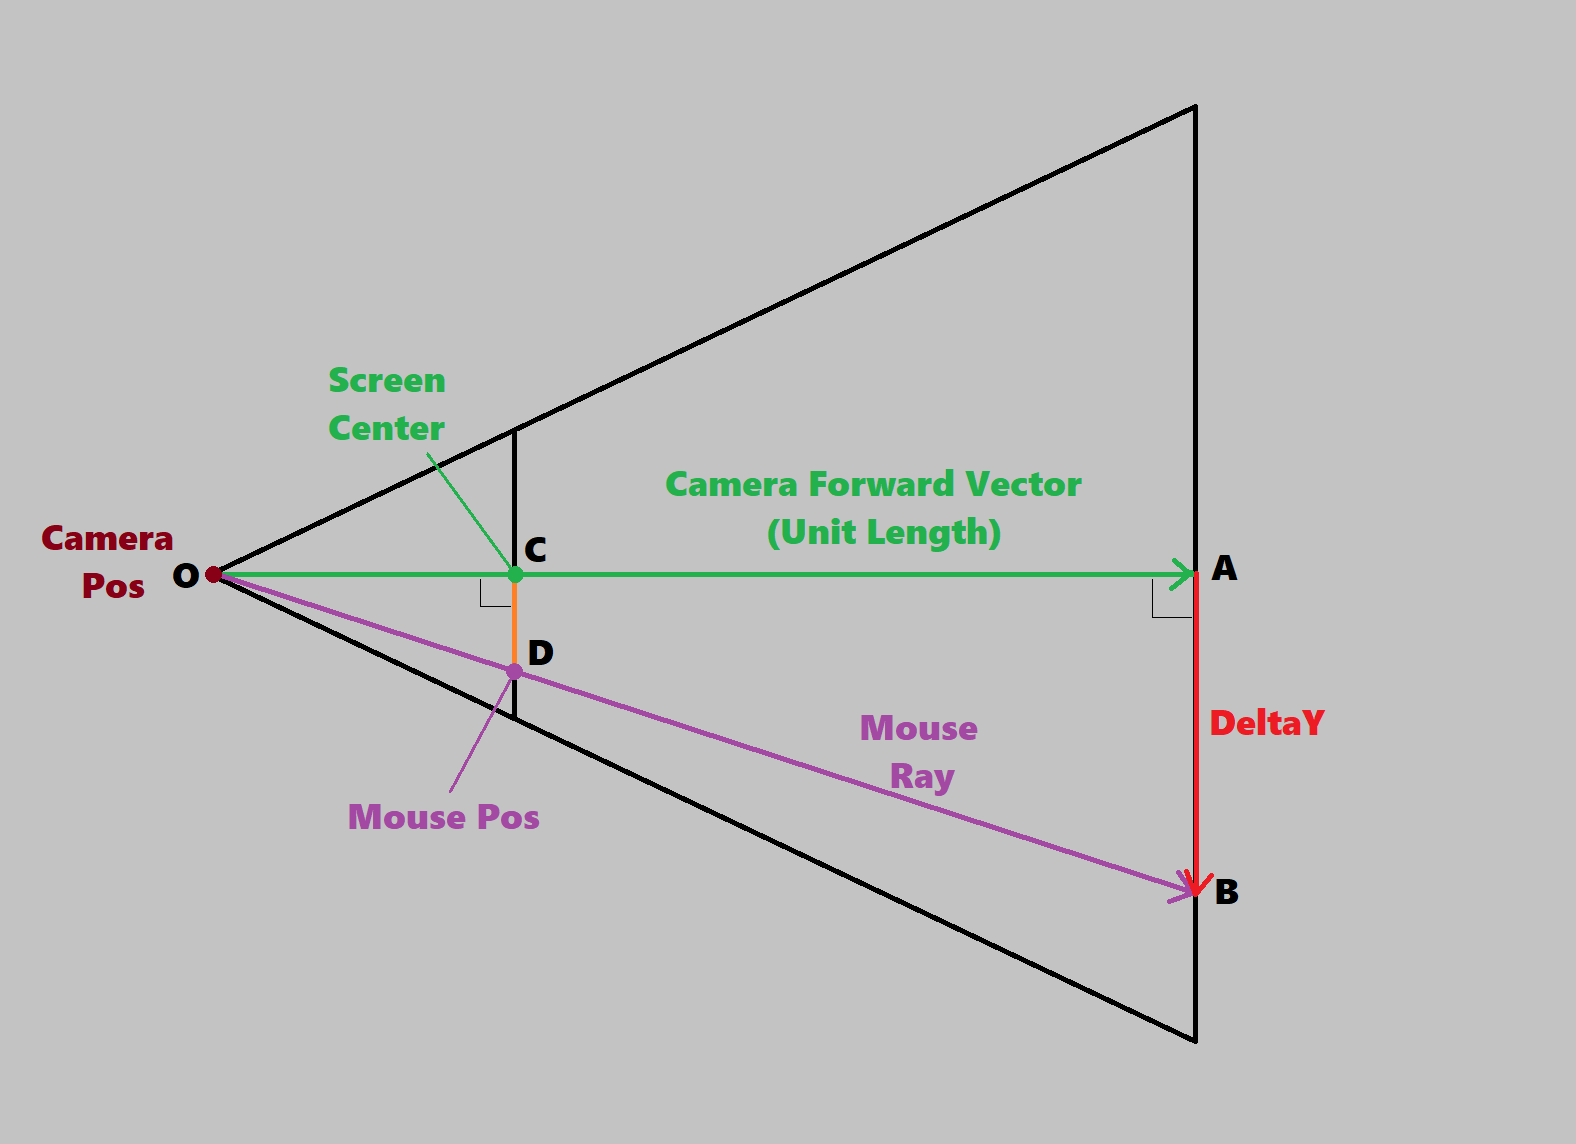
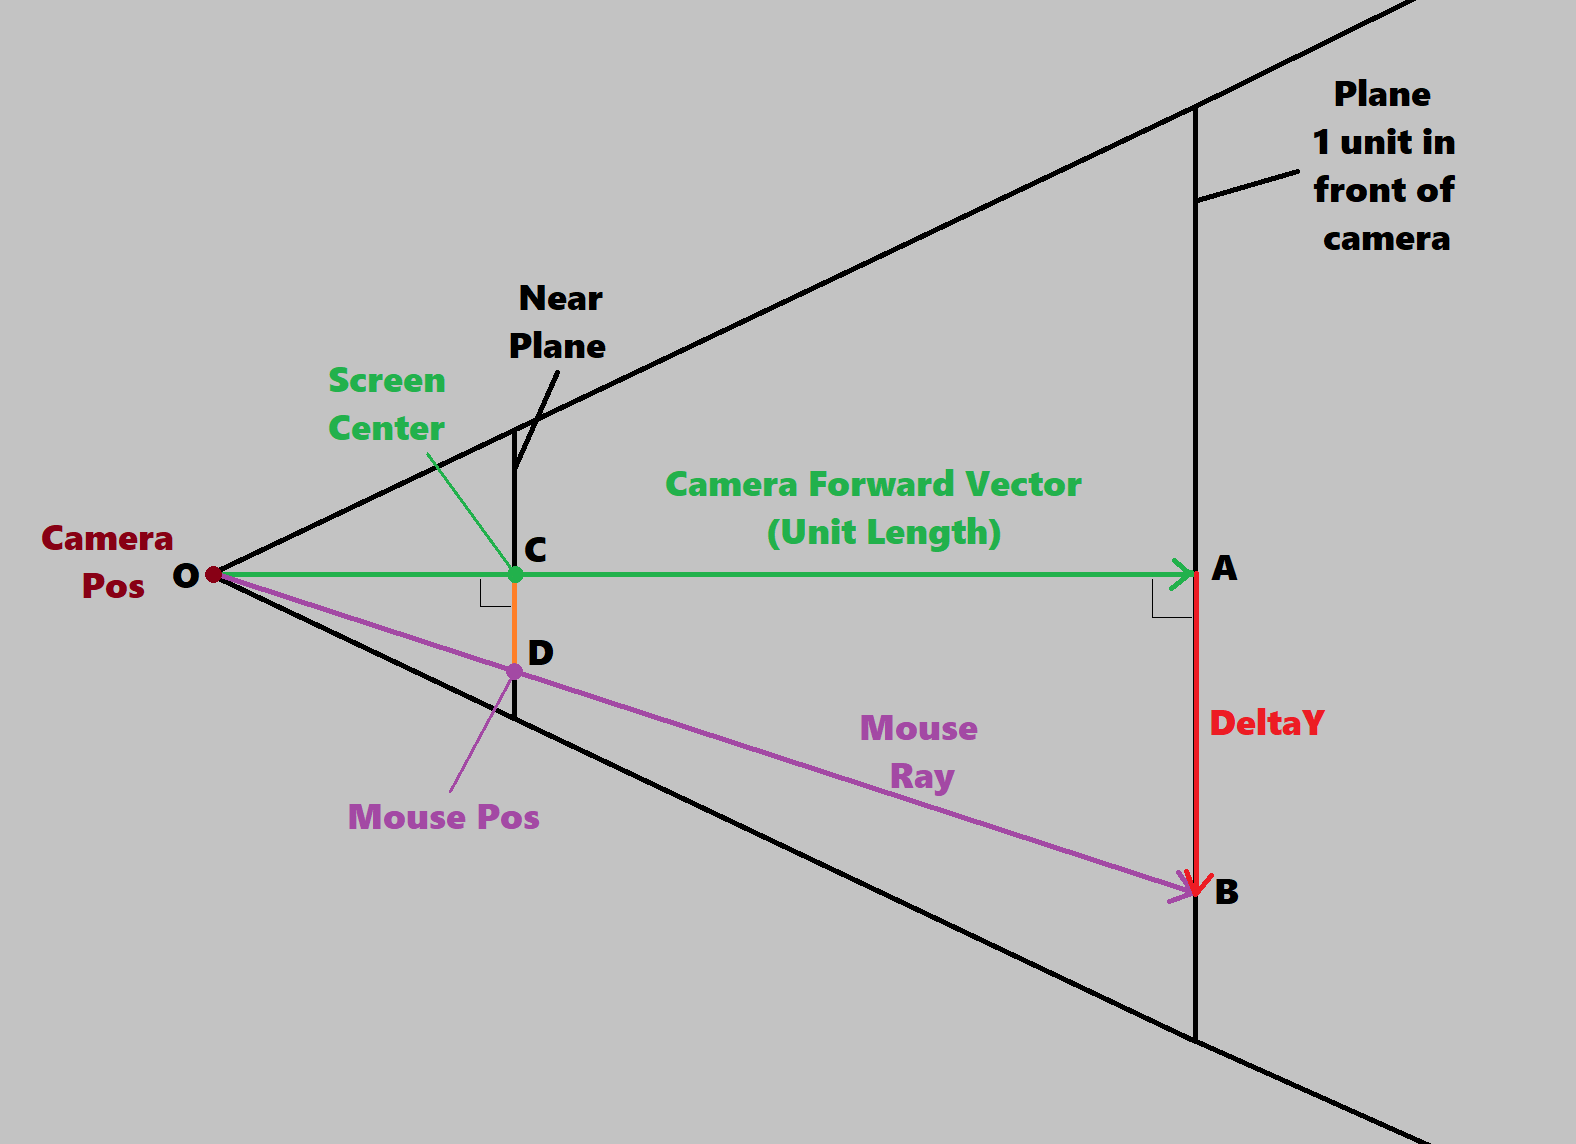
Edited Mouse Raycasting Derivation for clarity

diff --git a/posts/mouse_raycasting_derivation.html b/posts/mouse_raycasting_derivation.html
@@ -33,9 +33,10 @@
                 <p><strong>Summary</strong>: This article outlines a derivation for a simple way to cast a ray in world space through a mouse position on the screen, allowing for mouse picking, shooting gameplay, etc.</p>
             </blockquote>
             <p>I read an interesting blog post outlining a very simple way to cast a ray through a given mouse position in screen space: <a href="https://themadmanshill.com/posts/02-mouse-raycasting/mouse-ray.html">Mouse Raycasting by Diego Sainz-Pardo Laso</a>. This is a very short and convenient formula compared to the mentioned alternative method of transforming a ray in projection space to world space using many matrix multiplications. The author didn't make it clear how to derive the new method used so I figured it out and will share it here.</p>
-            <p>First, a diagram of the problem space:</p>
+            <p>First, a diagram of the problem space - for a given position on the screen (<code>Mouse Pos</code>) we want to construct a ray (<code>Mouse Ray</code>) that starts at the camera position and passes through the equivalent position on the near plane of the camera frustum:</p>
             <p><img src="..\Images\MouseRaycastingOverview.png" alt="Diagram showing a ray being cast through a camera frustum based on a mouse position on the near plane, and how it relates to the camera's forward vector." title="Given a mouse position on the screen, we want to use the corresponding position ton the near plane of the camera frustum to cast a ray into the scene."></p>
-            <p>For a given position on the screen (<code>Mouse Pos</code>) we want to construct a ray (<code>Mouse Ray</code>) that starts at the camera position and passes through the equivalent position on the near plane of the camera frustum. We construct a plane one unit in front of the camera that is aligned with the near plane - the point at which our <code>MouseRay</code> hits this plane can be expressed as the camera position plus the camera forward vector, along with some delta vector that we can split into a horizontal and vertical component (<code>DeltaX</code> and <code>DeltaY</code>, which are parallel to the camera's Right and Up vector respectively). If we can derive <code>DeltaX</code> and <code>DeltaY</code>, we can adjust the camera's forward vector to align with the ray cast through the mouse position, and normalise it. We can derive a calculation for these values individually. First, let's draw the scene from the top down to help find <code>DeltaX</code>:</p>
+            <p>Consider the <code>Camera Forward Vector</code> - this is a unit vector travelling from the camera position (<code>Camera Pos</code>) through the center of the frustum. At the end of this vector we construct a plane that is aligned with the near plane. Let's call the point at which <code>Mouse Ray</code> hits this plane <code>Hit Point</code>. The vector from <code>Camera Pos</code> to <code>Hit Point</code> can be expressed as <code>Camera Forward Vector</code> plus some unknown vector <code>Delta</code> that lies on the plane. If we can calculate <code>Delta</code> we can construct this vector and normalise it to get our <code>Mouse Ray</code>.</p>
+            <p>To solve this problem we split <code>Delta</code> into a horizontal and vertical component (<code>DeltaX</code> and <code>DeltaY</code>, which are parallel to the camera's Right and Up vector respectively). We can derive a formula for each of these values. First, let's draw the scene from the top down to help find <code>DeltaX</code>:</p>
             <p><img src="..\Images\MouseRaycastingOverheadView.png" alt="Diagram showing the ray being cast through the mouse position from the top down." title="Looking from the top down, we can see the mouse ray and camera's foward vector make up two similar triangles, so we can solve for `DeltaX` with some trigonometry."></p>
             <p>Triangles OAB and OCD are right-triangles sharing an angle therefore their sides are in the same ratio: <code>AB/OA == CD/OC</code></p>
             <p><code>OA</code> is 1 (the length of the camera's forward vector) and can be removed from the equation. <code>OC</code> is the distance of the frustum's near plane from the camera (specified when calculating the perspective projection matrix) which we will call <code>nearZ</code>. <code>AB</code> is our unknown <code>DeltaX</code> so all that remains is to calculate <code>CD</code>. Here's a diagram showing only that part of the problem:</p>
@@ -67,7 +68,7 @@ DeltaY<span style="color: #BBB"> </span><span style="color: #666">=</span><span 
             <!-- HTML generated using hilite.me --><div style="background: #f8f8f8; overflow:auto;width:auto;border:solid gray;border-width:.1em .1em .1em .8em;padding:.2em .6em;"><pre style="margin: 0; line-height: 125%;"><span></span>FovY<span style="color: #BBB"> </span><span style="color: #666">=</span><span style="color: #BBB"> </span>FovX<span style="color: #BBB"> </span><span style="color: #666">*</span><span style="color: #BBB"> </span>AspectRatio
 </pre></div>
 
-            <p>Finally here's the pseudocode for the full process. Thanks again to Diego for the original blog post.</p>
+            <p>Finally here's the pseudocode for the full process. Note that this function works for any point on the screen (not necessarily the mouse position) so I call the point <code>ndcPos</code> instead of <code>mousePos</code>. Thanks again to Diego for the original blog post.</p>
             
             <!-- HTML generated using hilite.me --><div style="background: #f8f8f8; overflow:auto;width:auto;border:solid gray;border-width:.1em .1em .1em .8em;padding:.2em .6em;"><pre style="margin: 0; line-height: 125%;"><span></span><span style="color: #008000; font-weight: bold">struct</span><span style="color: #BBB"> </span><span style="color: #00F; font-weight: bold">Ray</span>
 {

diff --git a/ArticleSources/mouse_raycasting_derivation.md b/ArticleSources/mouse_raycasting_derivation.md
@@ -1,15 +1,17 @@
 # Mouse Raycasting Derivation
-## XXth August 2026
+## 17th August 2026
 
 > **Summary**: This article outlines a derivation for a simple way to cast a ray in world space through a mouse position on the screen, allowing for mouse picking, shooting gameplay, etc.
 
 I read an interesting blog post outlining a very simple way to cast a ray through a given mouse position in screen space: [Mouse Raycasting by Diego Sainz-Pardo Laso](https://themadmanshill.com/posts/02-mouse-raycasting/mouse-ray.html). This is a very short and convenient formula compared to the mentioned alternative method of transforming a ray in projection space to world space using many matrix multiplications. The author didn't make it clear how to derive the new method used so I figured it out and will share it here.
 
-First, a diagram of the problem space:
+First, a diagram of the problem - for a given position on the screen (`Mouse Pos`) we want to construct a ray (`Mouse Ray`) the starts at the camera position and passes through the equivalent position on the near plane of the camera frustum:
 
 ![Diagram showing a ray being cast through a camera frustum based on a mouse position on the near plane, and how it relates to the camera's forward vector.](../Images/MouseRaycastingOverview.png "Given a mouse position on the screen, we want to use the corresponding position on the near plane of the camera frustum to cast a ray into the scene.")
 
-For a given position on the screen (`Mouse Pos`) we want to construct a ray (`Mouse Ray`) the starts at the camera position and passes through the equivalent position on the near plane of the camera frustum. We construct a plane one unit away that is aligned with the near plane - the point at which our `MouseRay` hits this plane can be expressed as the camera position plus the camera forward vector, along with some delta vector that we can split into a horizontal and vertical component (`DeltaX` and `DeltaY`, which are parallel to the camera's Right and Up vector respectively). If we can derive `DeltaX` and `DeltaY`, we can adjust the camera's forward vector to align with the ray cast through the mouse position, and normalise it. We can derive a calculation for these values individually. First, let's draw the scene from the top down to help find `DeltaX`:
+Consider the `Camera Forward Vector` - this is a unit vector travelling from the camera position (`Camera Pos`) through the center of the frustum. At the end of this vector we construct a plane that is aligned with the near plane. Let's call the point at which `Mouse Ray` hits this plane `Hit Point`. The vector from `Camera Pos` to `Hit Point` can be expressed as `Camera Forward Vector` plus some unknown vector `Delta` that lies on the plane. If we can calculate `Delta` we can construct this vector and normalise it to get our `Mouse Ray`.
+
+To solve this problem we split `Delta` into a horizontal and vertical component (`DeltaX` and `DeltaY`, which are parallel to the camera's Right and Up vector respectively). We can derive a formula for each of these values. First, let's draw the scene from the top down to help find `DeltaX`:
 
 ![Diagram showing the ray being cast through the mouse position from the top down.](../Images/MouseRaycastingOverheadView.png "Looking from the top down, we can see the mouse ray and camera's foward vector make up two similar triangles, so we can solve for `DeltaX` with some trigonometry.")
 
@@ -51,7 +53,7 @@ where `AspectRatio` is `ViewportWidth/ViewportHeight`. People often use `FovY` (
 FovY = FovX * AspectRatio
 ```
 
-Finally here's the pseudocode for the full process. Thanks again to Diego for the original blog post.
+Finally here's the pseudocode for the full process. Note that this function works for any point on the screen (not necessarily the mouse position) so I call the point `ndcPos` instead of `mousePos`. Thanks again to Diego for the original blog post.
 
 ```cpp
 struct Ray
